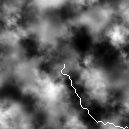
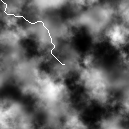
local planning done

diff --git a/Python Path Planning/local_planner.py b/Python Path Planning/local_planner.py
@@ -1,4 +1,20 @@
 import visualizer as vis
+import numpy as np
+from PIL import Image
+import util
+import copy
+import math
+import heightmap_planner as plan
+
+delta = {'N': (0, 1),
+    'S': (0, -1),
+    'E': (1, 0),
+    'W': (-1, 0),
+    'NW': (-1, 1),
+    'SW': (-1, -1),
+    'NE': (1, 1),
+    'SE': (1, -1),
+    'STOP': (0, 0)}
 
 # FOR ROVER USE (3D Framework)
 # # constant inputs
@@ -53,6 +69,13 @@ makeline((18, -62), (30, -62))
 
 # vertical lines
 makeline((6, -40), (6, -30))
+makeline((18, -40), (18, -30))
+makeline((19, -40), (19, -30))
+makeline((20, -40), (20, -30))
+makeline((21, -40), (21, -30))
+makeline((22, -40), (22, -30))
+makeline((23, -40), (23, -30))
+makeline((24, -40), (24, -30))
 makeline((25, -40), (25, -30))
 
 data = vis.map_to_array(obstacles, size)
@@ -68,12 +91,10 @@ def lidar(state):
     for dx in range(-1, 2):
         for dy in range(-1, 2):
             new_state = (x + dx, y + dy)
-            print new_state
             if new_state in obstacles:
                 result.append(new_state)
     for dx, dy in [(0, 1), (0, -1), (1, 0), (-1, 0)]:
         new_state = (x + dx, y + dy)
-        print new_state
         if new_state not in result:
             if dx == 1 and (x + 2, y) in obstacles: result.append((x + 2, y))
             if dx == -1 and (x - 2, y) in obstacles: result.append((x - 2, y))
@@ -81,5 +102,47 @@ def lidar(state):
             if dy == -1 and (x, y - 2) in obstacles: result.append((x, y - 2))
     return result
 
+# print lidar((-2, 0))
+# print obstacles.keys()
 environment = {}
 
+png = plan.data()
+cur_state = plan.getStartState()
+coordinates = [cur_state]
+
+while not plan.goal(cur_state):
+    obs = lidar(cur_state)
+    # print obs, cur_state
+    for ob in obs:
+        environment[ob] = 255
+    print environment.keys(), cur_state
+    actions = plan.aStarSearch(environment.keys(), cur_state)
+    for action in actions:
+        print cur_state
+        x, y = cur_state[0] + 64, 64 - cur_state[1]
+        png[y][x] = 255
+        x, y = cur_state
+        dx, dy = delta[action]
+        cur_state = (x + dx, y + dy)
+        coordinates.append(cur_state)
+        if not all([x in environment for x in lidar(cur_state)]):
+            break
+
+with open("obstacle_astar.png","wb") as f:
+    f.write(vis.makeGrayPNG(png))
+with open("obstacle_astar.txt","wb") as f:
+    f.write(str(coordinates))
+
+# # change certain color 
+# im = Image.open('fig1.png')
+# data = np.array(im)
+
+# r1, g1, b1 = 255, 255, 255 # Original value
+# r2, g2, b2 = 255, 0, 0 # Value that we want to replace it with
+
+# red, green, blue = data[:,:,0], data[:,:,1], data[:,:,2]
+# mask = (red == r1) & (green == g1) & (blue == b1)
+# data[:,:,:3][mask] = [r2, g2, b2]
+
+# im = Image.fromarray(data)
+# im.save('fig1_modified.png')

diff --git a/Python Path Planning/heightmap_planner.py b/Python Path Planning/heightmap_planner.py
@@ -18,15 +18,15 @@ for line in lines:
 
 # visualization of landscape
 size = int(math.sqrt(len(lines)))
-data = vis.map_to_array(height_map, size)
+def data(): return vis.map_to_array(height_map, size)
 with open("landscape.png","wb") as f:
-	f.write(vis.makeGrayPNG(data))
+	f.write(vis.makeGrayPNG(data()))
 
 # scaling factor for distance in x, y, z
 x_scale = 50
 y_scale = 50
 z_scale = 20
-goal_state = (64, -64)
+goal_state = (-64, 64)
 
 delta = {'N': (0, 1),
 	'S': (0, -1),
@@ -148,7 +148,7 @@ def uniformCostSearch():
 
 # print uniformCostSearch()
 
-def aStarSearch():
+def aStarSearch(obstacles = [], start_state = getStartState()):
     """Search the node that has the lowest combined cost and heuristic first."""
     # give the forward and back cost as the heuristic
     def priority(node):
@@ -158,11 +158,12 @@ def aStarSearch():
         return h + g
 
     # similar to above
-    state = getStartState()
+    state = start_state
     nodes = util.PriorityQueueWithFunction(priority)
     path = util.Stack()
     nodes.push((state, path))
-    states_visited = set()
+    states_visited = set(obstacles)
+    print obstacles, states_visited
 
     while True:
         if nodes.isEmpty():
@@ -181,8 +182,8 @@ def aStarSearch():
 
 # visualize path on landscape
 # data = vis.map_to_array(height_map, size)
-data_uc = data
-data_astar = data
+data_uc = data()
+data_astar = data()
 cur_state = getStartState()
 # actions = uniformCostSearch()
 actions = aStarSearch()
@@ -190,6 +191,7 @@ coordinates = [cur_state]
 while actions:
     x, y = cur_state[0] + 64, 64 - cur_state[1]
     data_astar[y][x] = 255
+    # data_uc[y][x] = 255
     x, y = cur_state
     dx, dy = delta[actions.pop(0)]
     cur_state = (x + dx, y + dy)

diff --git a/Python Path Planning/blender.py b/Python Path Planning/blender.py
@@ -1,0 +1,10 @@
+from PIL import Image
+
+background = Image.open("obstacle_astar.png")
+overlay = Image.open("obstacles.png")
+
+background = background.convert("RGBA")
+overlay = overlay.convert("RGBA")
+
+new_img = Image.blend(background, overlay, 0.5)
+new_img.save("blended.png","PNG")
